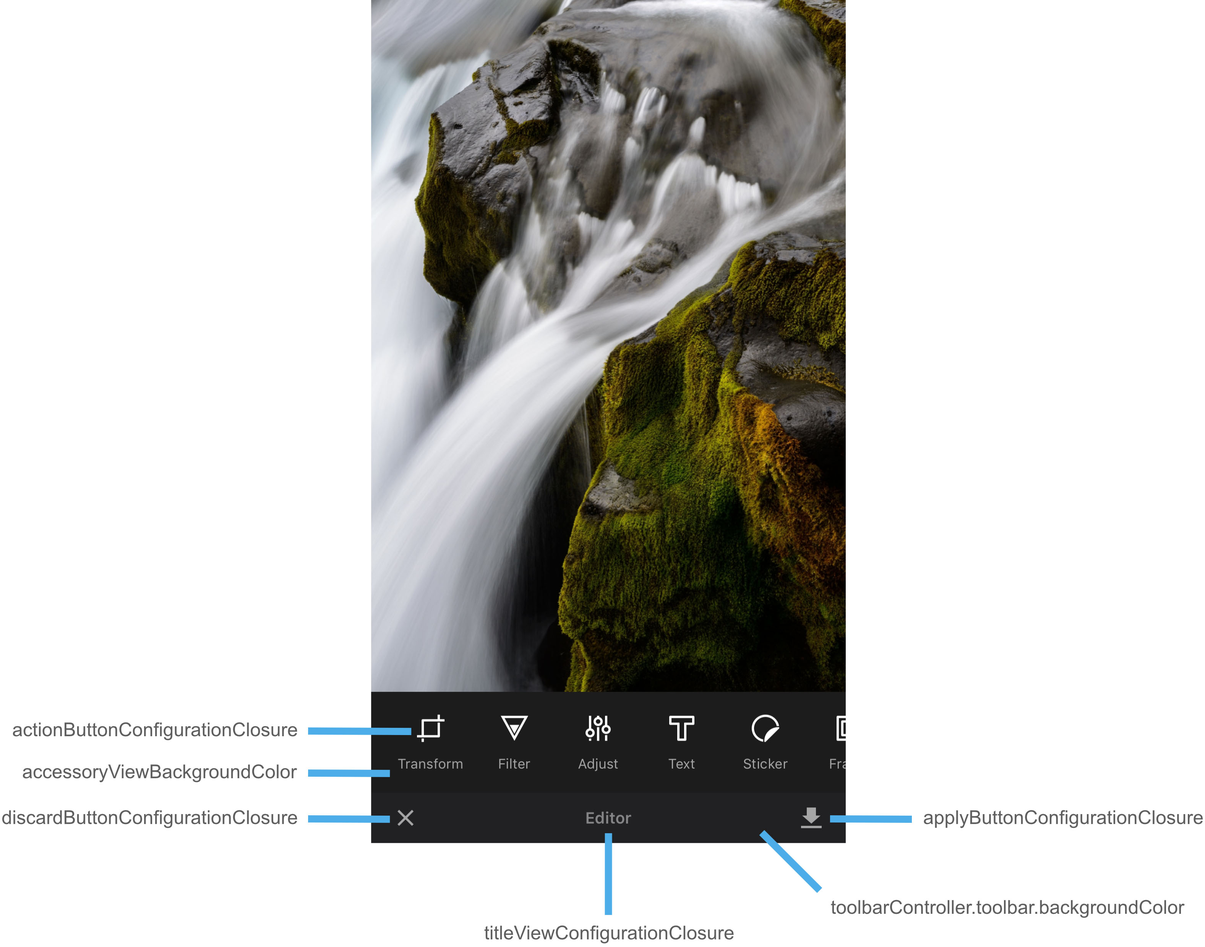
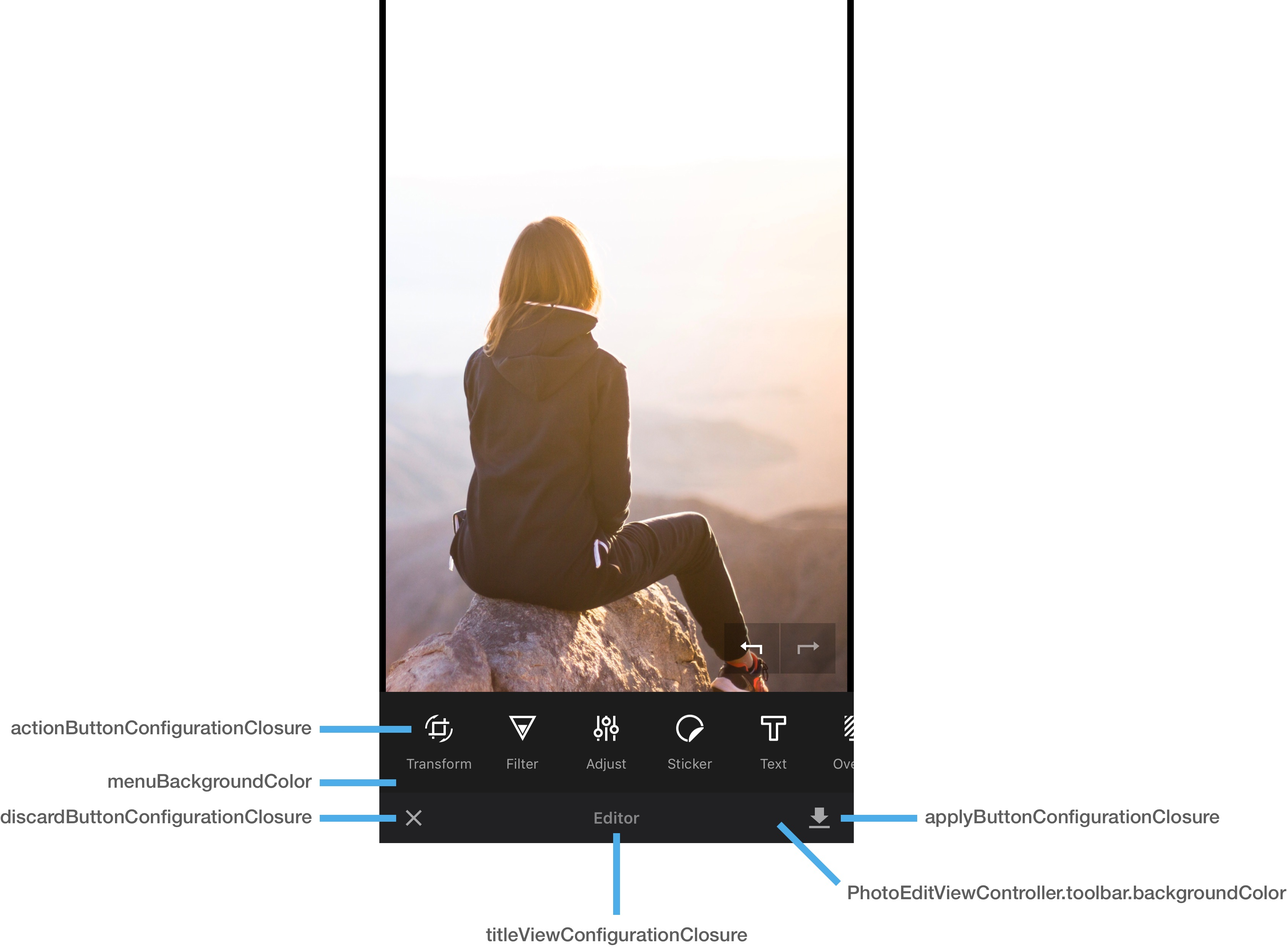
Update docs

diff --git a/_guides/ios/v8/introduction/configuration.md b/_guides/ios/v8/introduction/configuration.md
@@ -30,6 +30,9 @@ The constructor of each configuration class has a parameter for its dedicated bu
 Hence, all default settings of our SDK are set in the default builder classes.
 To change the configuration of any module, you have to set up your own builder, as follows:
 
+{% capture first_snippet %}
+Swift
+---
 ```swift
 ...
 let configuration = Configuration() { builder in
@@ -39,15 +42,56 @@ let configuration = Configuration() { builder in
 let cameraViewController = CameraViewController(configuration: configuration)
 ...
 ```
+{% endcapture %}
+
+{% capture second_snippet %}
+Objective-C
+---
+```objc
+...
+PESDKConfiguration *configuration = [[PESDKConfiguration alloc] initWithBuilder:^(PESDKConfigurationBuilder * _Nonnull builder) {
+  builder.backgroundColor = UIColor.redColor;
+}];
+
+PESDKCameraViewController *cameraViewController = [[PESDKCameraViewController alloc] initWithConfiguration:configuration];
+...
+
+```
+{% endcapture %}
+
+{% assign snippets = "" | split: "" | push: first_snippet | push: second_snippet %}
+{% capture identifier %}{{page.title}}-{{page.version}}-CONFIG{% endcapture %}
+{% include multilingual_code_block.html snippets=snippets identifier=identifier %}
 
 In order to modify the options of any specific tool, you need to modify the corresponding options using the same pattern. For example, changing the background color of the transform tool can be done using the following code:
 
+{% capture first_snippet %}
+Swift
+---
 ```swift
 let configuration = Configuration { builder in
-    builder.configureTransformToolController { options in
-        options.backgroundColor = .darkGray
+  builder.configureTransformToolController { options in
+    options.backgroundColor = .darkGray
+  }
 }
 ```
+{% endcapture %}
+
+{% capture second_snippet %}
+Objective-C
+---
+```objc
+PESDKConfiguration *configuration = [[PESDKConfiguration alloc] initWithBuilder:^(PESDKConfigurationBuilder * _Nonnull builder) {
+  [builder configureTransformToolController:^(PESDKTransformToolControllerOptionsBuilder * _Nonnull options) {
+    options.backgroundColor = UIColor.darkGrayColor;
+  }];
+}];
+```
+{% endcapture %}
+
+{% assign snippets = "" | split: "" | push: first_snippet | push: second_snippet %}
+{% capture identifier %}{{page.title}}-{{page.version}}-TRANSFORMCONFIG1{% endcapture %}
+{% include multilingual_code_block.html snippets=snippets identifier=identifier %}
 
 For more configuration examples, please refer to the examples shown below or take a look at the {% include guides/ios/demo-repository.md %}. Or take a look at our default configuration in action and check out our {% include guides/ios/example-app.md %}.
 
@@ -58,7 +102,7 @@ That means, that if you set the `backgroundColor` of the `Configuration` to blac
 unless you set another `backgroundColor` in the specific tool configuration.
 The following image annotates the most common configuration members.
 Please note that the background color of the toolbar,
-which sits at the bottom, is set through a property of the `toolbarController`.
+which sits at the bottom, is set through a property of the `PhotoEditViewController`.
 
 ![Common members]({{ site.baseurl }}/assets/images/guides/{{page.platform}}/{{page.version}}/commonMembers.jpg)
 
@@ -66,25 +110,53 @@ which sits at the bottom, is set through a property of the `toolbarController`.
 
 Most configuration objects offer closures to setup UI elements individually.
 In that case they usually come with an array of actions that determine the available actions.
-These closures will also have a `cell` and an `action` as parameters.
-This is due to the fact that most of our controllers use `UICollectionViews`.
-For example, the main tool bar presents all available actions like filters, crop, orientation.
-The closure is then called for each of these actions. So if you wish to change the crop button icon
-you have to check the action type and set the image accordingly.
+These closures will also have a `cell` and an `menuItem` as parameters.
+This is due to the fact that most of our controllers use `UICollectionView`s.
+For example, the main tool bar presents all available tools like filters and transform.
+The closure is then called for each of these menu items. If you wish to change the transform button icon
+you have to check the menu item and set the image accordingly.
 
+{% capture first_snippet %}
+Swift
+---
 ```swift
 builder.configurePhotoEditorViewController { options in
-    options.actionButtonConfigurationClosure = { cell, action in
-        if action == .Crop {
-            cell.imageView.image = ...
+  options.actionButtonConfigurationClosure = { cell, menuItem in
+    switch menuItem {
+      case .tool(let toolMenuItem):
+        if toolMenuItem.toolControllerClass == TransformToolController.self {
+          cell.imageView.image = ...
         }
+      default:
+        break
     }
 
-    options.actionButtonConfigurationClosure = { cell, action in
-      cell.captionTintColor = UIColor.red
-    }
+    cell.captionTintColor = UIColor.red
+  }
 }
 ```
+{% endcapture %}
+
+{% capture second_snippet %}
+Objective-C
+---
+```objc
+[builder configurePhotoEditorViewController:^(PESDKPhotoEditViewControllerOptionsBuilder * _Nonnull options) {
+  options.actionButtonConfigurationBlock = ^(PESDKIconCaptionCollectionViewCell * _Nonnull cell, PESDKPhotoEditMenuItem * _Nonnull menuItem) {
+    if ([menuItem.toolMenuItem.title isEqualToString:@"Transform"]) {
+      cell.imageView.image = ...
+    }
+
+    cell.captionTintColor = UIColor.redColor;
+  };
+}];
+```
+{% endcapture %}
+
+{% assign snippets = "" | split: "" | push: first_snippet | push: second_snippet %}
+{% capture identifier %}{{page.title}}-{{page.version}}-TRANSFORMCONFIG2{% endcapture %}
+{% include multilingual_code_block.html snippets=snippets identifier=identifier %}
+
 
 ### Changing icons
 
@@ -93,54 +165,43 @@ You can register a block using the `PESDK.bundleImageBlock` property which gets 
 
 ### Selecting menu items
 
-With version 6 we changed the way menu items are configured. Now there is a new constructor for the `PhotoEditViewController`,
-that takes an array of `MenuItem`'s. We recommend having a separate function to setup the menu items:
+`PhotoEditViewController` has a constructor which takes an array of `PhotoEditMenuItem`s.
 
-```swift
-func menuItems(with configuration: Configuration) -> [MenuItem] {
-    return [
-        .tool("Transform", UIImage(named: "ic_crop_48pt", in: Bundle.pesdkBundle, compatibleWith: nil)!, TransformToolController(configuration: configuration))
-    ]
-}
-```
-
-`MenuItem` is an enum with three possible cases.
-1. `case tool(String, UIImage, PhotoEditToolController)` represents a tool that can be pushed onto the stack. It has a title, an icon and the instantiated tool as associated values.
-2. `case action(String, UIImage, (inout PhotoEditModel) -> Void, ((PhotoEditModel) -> Bool)?)` represents an action that should be run when this menu item is selected. It has a title, an icon, the closure that should be run and which can update the current photo edit model, and a state closure that is used to query the active state of the action as associated values.
-3. `case separator` represents a visual separator in the menu. It has no associated values.
+`PhotoEditMenuItem` is an enum with two possible cases.
+1. `case tool(ToolMenuItem)` represents a tool that can be pushed onto the stack. It has a `ToolMenuItem` as an associated value, which has a title, an icon and the class of the tool that should be instantiated.
+2. `case action(ActionMenuItem)` represents an action that should be executed when this menu item is selected. It has an `ActionMenuItem` as an associated value, which has a title, an icon, the closure that should be executed and which can update the current photo edit model, and a state closure that is used to query the active state of the action.
 
 The `.tool` case can be used to present any subclass of `PhotoEditToolController`, making it easier to add your very own custom tool controllers to the SDK.
 Here is the code for the current default set of menu items:
 
 ```swift
-/// The default items that will be used for the main menu.
-///
-/// - Parameter configuration: A configuration instance to use to configure the tools.
-/// - Returns: An array with the default menu items.
-public static func defaultItems(with configuration: Configuration) -> [MenuItem] {
-  return [
-    .tool("Transform".localized, UIImage.bundledTemplateImage(named: "imgly_icon_tool_transform_48pt"), TransformToolController(configuration: configuration)),
-    .tool("Filter".localized, UIImage.bundledTemplateImage(named: "imgly_icon_tool_filter_48pt"), FilterToolController(configuration: configuration)),
-    .tool("Adjust".localized, UIImage.bundledTemplateImage(named: "imgly_icon_tool_adjust_48pt"), AdjustToolController(configuration: configuration)),
-    .tool("Sticker".localized, UIImage.bundledTemplateImage(named: "imgly_icon_tool_sticker_48pt"), StickerToolController(configuration: configuration)),
-    .tool("Text".localized, UIImage.bundledTemplateImage(named: "imgly_icon_tool_text_48pt"), TextToolController(configuration: configuration)),
-    .tool("Overlay".localized, UIImage.bundledTemplateImage(named: "imgly_icon_tool_overlay_48pt"), OverlayToolController(configuration: configuration)),
-    .tool("Frame".localized, UIImage.bundledTemplateImage(named: "imgly_icon_tool_frame_48pt"), FrameToolController(configuration: configuration)),
-    .tool("Brush".localized, UIImage.bundledTemplateImage(named: "imgly_icon_tool_brush_48pt"), BrushToolController(configuration: configuration)),
-    .tool("Focus".localized, UIImage.bundledTemplateImage(named: "imgly_icon_tool_focus_48pt"), FocusToolController(configuration: configuration)),
-    .action("Magic".localized, UIImage.bundledTemplateImage(named: "imgly_icon_tool_magic_48pt"), { photoEditModel in
-      var updatedPhotoEditModel = photoEditModel
-      updatedPhotoEditModel.isAutoEnhancementEnabled = !updatedPhotoEditModel.isAutoEnhancementEnabled
-      photoEditModel = updatedPhotoEditModel
-
-      if updatedPhotoEditModel.isAutoEnhancementEnabled {
-        PESDK.analytics.logEvent(.autoEnhancementOn)
-      } else {
-        PESDK.analytics.logEvent(.autoEnhancementOff)
-      }
-    }, { photoEditModel in
-      photoEditModel.isAutoEnhancementEnabled
-    })
+/// Creates the default menu items (transform, filter, adjust, sticker, text, overlay, frame,
+/// brush, focus and auto enhancement)
+public static var defaultItems: [PhotoEditMenuItem] {
+  let menuItems: [MenuItem?] = [
+    ToolMenuItem.createTransformToolItem(),
+    ToolMenuItem.createFilterToolItem(),
+    ToolMenuItem.createAdjustToolItem(),
+    ToolMenuItem.createStickerToolItem(),
+    ToolMenuItem.createTextToolItem(),
+    ToolMenuItem.createOverlayToolItem(),
+    ToolMenuItem.createFrameToolItem(),
+    ToolMenuItem.createBrushToolItem(),
+    ToolMenuItem.createFocusToolItem(),
+    ActionMenuItem.createMagicItem()
   ]
+
+  let photoEditMenuItems: [PhotoEditMenuItem] = menuItems.flatMap { menuItem in
+    switch menuItem {
+    case let menuItem as ToolMenuItem:
+      return .tool(menuItem)
+    case let menuItem as ActionMenuItem:
+      return .action(menuItem)
+    default:
+      return nil
+    }
+  }
+
+  return photoEditMenuItems
 }
 ```

diff --git a/_guides/ios/v8/concepts/controls.md b/_guides/ios/v8/concepts/controls.md
@@ -18,17 +18,8 @@ published: true # Either published or not
 ![{{page.title}} tool]({{ site.baseurl }}/assets/images/guides/{{page.platform}}/{{page.version}}/{{page.title | downcase}}.jpg){: height="400px" .center-image}
 
 
-The SDK offers controls for all available tools. The default toolset consists of the following tools: [Transform]({{ site.baseurl }}/guides/{{page.platform}}/{{page.version}}/features/transform), [Filters]({{ site.baseurl }}/guides/{{page.platform}}/{{page.version}}/features/filter), [Adjustments]({{ site.baseurl }}/guides/{{page.platform}}/{{page.version}}/features/adjustments), [Text]({{ site.baseurl }}/guides/{{page.platform}}/{{page.version}}/features/text), [Stickers]({{ site.baseurl }}/guides/{{page.platform}}/{{page.version}}/features/stickers), [Frames]({{ site.baseurl }}/guides/{{page.platform}}/{{page.version}}/features/frames), [Brush]({{ site.baseurl }}/guides/{{page.platform}}/{{page.version}}/features/brush), [Focus]({{ site.baseurl }}/guides/{{page.platform}}/{{page.version}}/features/focus) and [Magic]({{ site.baseurl }}/guides/{{page.platform}}/{{page.version}}/features/magic).
+The SDK offers controls for all available tools. The default toolset consists of the following tools: [Transform]({{ site.baseurl }}/guides/{{page.platform}}/{{page.version}}/features/transform), [Filters]({{ site.baseurl }}/guides/{{page.platform}}/{{page.version}}/features/filter), [Adjustments]({{ site.baseurl }}/guides/{{page.platform}}/{{page.version}}/features/adjustments), [Stickers]({{ site.baseurl }}/guides/{{page.platform}}/{{page.version}}/features/stickers), [Text]({{ site.baseurl }}/guides/{{page.platform}}/{{page.version}}/features/text), [Overlays]({{ site.baseurl }}/guides/{{page.platform}}/{{page.version}}/features/overlays), [Frames]({{ site.baseurl }}/guides/{{page.platform}}/{{page.version}}/features/frames), [Brush]({{ site.baseurl }}/guides/{{page.platform}}/{{page.version}}/features/brush), [Focus]({{ site.baseurl }}/guides/{{page.platform}}/{{page.version}}/features/focus) and Magic.
 
-All available tools are implemented as [`PhotoEditToolController`]({{ site.baseurl }}/apidocs/{{page.platform}}/{{page.version}}/Classes/PhotoEditToolController.html) subclasses and
-get presented in a stacked layout, starting from the [`PhotoEditViewController`]({{ site.baseurl }}/apidocs/{{page.platform}}/{{page.version}}/Classes/PhotoEditViewController.html) as root, which is embedded in a [`ToolbarController`]({{ site.baseurl }}/apidocs/{{page.platform}}/{{page.version}}/Classes/ToolbarController.html) for hierarchy and toolbar management. Each tool controller can be configured using its corresponding [`ToolControllerOptions`]({{ site.baseurl }}/apidocs/{{page.platform}}/{{page.version}}/Classes/ToolControllerOptions.html) subclass as described in the [configuration]({{ site.baseurl }}/guides/{{page.platform}}/{{page.version}}/introduction/configuration) and [customization]({{ site.baseurl }}/guides/{{page.platform}}/{{page.version}}/ui/customization) sections.
+All available tools are implemented as [`PhotoEditToolController`]({{ site.baseurl }}/apidocs/{{page.platform}}/{{page.version}}/Classes/PhotoEditToolController.html) subclasses. Most tools subclass [`MenuToolController`]({{ site.baseurl }}/apidocs/{{page.platform}}/{{page.version}}/Classes/MenuToolController.html) though, which is a `PhotoEditToolController` subclass which contains a [`MenuViewController`]({{ site.baseurl }}/apidocs/{{page.platform}}/{{page.version}}/Classes/MenuViewController.html) to present the menu at the bottom and a contained view controller above the menu. The [`PhotoEditViewController`]({{ site.baseurl }}/apidocs/{{page.platform}}/{{page.version}}/Classes/PhotoEditViewController.html) is responsible for presenting and dismissing `PhotoEditToolController`s.
 
-
-![{{page.title}} tool]({{ site.baseurl }}/assets/images/guides/{{page.platform}}/{{page.version}}/frames_annotated.jpg){: height="400px" .center-image}
-
-A single tool controller consists of four main views:
-
-1. `workspaceView` - The view showing the image thats currently being edited and any changes, e.g. brush strokes or stickers, that are applied to it
-2. `overlays` - A set of buttons that are overlaid on the `workspaceView` and offer functionality like 'Redo', 'Undo' or 'Bring to front'
-3. `accessoryView` - The default place for controls, that belong to the current tool
-4. `toolbar` - The bottom toolbar, managed by the [`ToolbarController`]({{ site.baseurl }}/apidocs/{{page.platform}}/{{page.version}}/Classes/ToolbarController.html) displays the current tool and allows apply/cancel actions.
+Each tool controller can be configured using its corresponding [`ToolControllerOptions`]({{ site.baseurl }}/apidocs/{{page.platform}}/{{page.version}}/Classes/ToolControllerOptions.html) subclass as described in the [configuration]({{ site.baseurl }}/guides/{{page.platform}}/{{page.version}}/introduction/configuration) and [customization]({{ site.baseurl }}/guides/{{page.platform}}/{{page.version}}/ui/customization) sections.

diff --git a/_guides/ios/v8/resources/faq.md b/_guides/ios/v8/resources/faq.md
@@ -31,7 +31,7 @@ We have a full-source license. Please [contact us](https://www.photoeditorsdk.co
 
 ## Framework Size
 
-You might be wondering why the `PhotoEditorSDK.framework` folder is almost 100 MB large. This can be irritating at first, however this is not the size that your users will get.
+You might be wondering why the `PhotoEditorSDK.framework` folder is almost 135 MB large. This can be irritating at first, however this is not the size that your users will get.
 
 The PhotoEditor SDK includes many UI components, lookup tables and fonts. This results in a lot of code and thus a sizeable binary, although there are certain factors that make it appear larger than it actually is. We’re working hard to ensure the framework size stays as low as possible.
 
@@ -39,11 +39,11 @@ The PhotoEditor SDK includes many UI components, lookup tables and fonts. This r
 
 The SDK binary includes slices for i386, x64, armv7 and arm64. For armv7 and arm64, bitcode is included as well — which basically results in 6 different slices. ([Learn more about bitcode here](https://www.photoeditorsdk.com/documentation/ios/faq#bitcode)) Each slice is a full and complete copy of the SDK, and only one slice is required for your users. During archiving Xcode ensures that the Simulator slices (i386, x64) are stripped away from our SDK, which will result in a significant size reduction.
 
-Bitcode is a large size contributor. As bitcode is unoptimized code in a generic format, it takes up a lot of space. Since Bitcode is not architecture independent, slices are emitted for both armv7 and arm64. These slices are rather large, more than 8MB per slice, so support for Bitcode alone is about 16 MB of space.
+Bitcode is a large size contributor. As bitcode is unoptimized code in a generic format, it takes up a lot of space. Since Bitcode is not architecture independent, slices are emitted for both armv7 and arm64. These slices are rather large, more than 18MB per slice, so support for Bitcode alone is about 36 MB of space.
 
 ### App Thinning
 
-Apple also actively works on reducing app binary size, and added [App Thinning](https://developer.apple.com/library/tvos/documentation/IDEs/Conceptual/AppDistributionGuide/AppThinning/AppThinning.html) in iOS 9. This creates optimized versions of your app and the user only downloads the architecture that is required for the current device. This also strips away bitcode, resulting in a total SDK footprint of about 10-20 MB.
+Apple also actively works on reducing app binary size, and added [App Thinning](https://developer.apple.com/library/tvos/documentation/IDEs/Conceptual/AppDistributionGuide/AppThinning/AppThinning.html) in iOS 9. This creates optimized versions of your app and the user only downloads the architecture that is required for the current device. This also strips away bitcode, resulting in a total SDK footprint of about 20-25 MB.
 
 ### PhotoEditorSDK.bundle
 
@@ -51,7 +51,7 @@ The PhotoEditor SDK needs various images and localization files, which are distr
 
 ### Swift
 
-Because the Swift ABI is not yet stable, each app that includes Swift bundles a version of the current Swift runtime. The PhotoEditor SDK is written in Swift and thus requires said Swift runtime to be included, even if you only use Objective-C in your own code. Unfortunately, the runtime adds roughly another 10 MB to the App Store size. When the Swift binary interface stabilizes, the Swift runtime will become part of the host OS and this size increase of apps will no longer exist.
+Because the Swift ABI is not yet stable, each app that includes Swift bundles a version of the current Swift runtime. The PhotoEditor SDK is written in Swift and thus requires said Swift runtime to be included, even if you only use Objective-C in your own code. Unfortunately, the runtime adds roughly another 12 MB to the App Store size. When the Swift binary interface stabilizes, the Swift runtime will become part of the host OS and this size increase of apps will no longer exist. Xcode 9 offers a new option to 'Strip Swift Symbols' when uploading a build to iTunes Connect. This step will get rid of quite a few MB. 
 
 ### Delta Updates
 

diff --git a/_guides/ios/v8/introduction/architecture.md b/_guides/ios/v8/introduction/architecture.md
@@ -26,7 +26,7 @@ The SDK's backend is in charge of all image processing and rendering. That inclu
 
 ## Frontend
 
-The frontend contains all UI elements including the `PhotoEditToolController`, which is the base class for all tools, the `StackLayoutToolController`, which is a subclass of `PhotoEditToolController` and lays out its views into the top `workspaceView` and the bottom `accessoryView`, which is used for the menu.
-It also contains the `CameraViewController` and `PhotoEditViewController` classes, which represent the root view controllers as well as the `ToolbarController`, which is used to handle the transitions between the editor and its tools.
+The frontend contains all UI elements including the `PhotoEditToolController`, which is the base class for all tools, the `MenuToolController`, which is a subclass of `PhotoEditToolController` and provides a collection view at the bottom of the view, which acts as the menu.
+It also contains the `CameraViewController` and `PhotoEditViewController` classes, which represent the root view controllers.
 
-All tools described in the `Features` section are implemented as `PhotoEditToolController` subclasses and managed by the `ToolbarController`. The UI configuration is implemented using the `Configuration` class and their subclasses, as described in the [configuration]({{ site.baseurl }}/guides/{{page.platform}}/{{page.version}}/introduction/configuration) section.
+All tools described in the `Features` section are implemented as `PhotoEditToolController` subclasses and managed by the `PhotoEditViewController`. The UI configuration is implemented using the `Configuration` class and their subclasses, as described in the [configuration]({{ site.baseurl }}/guides/{{page.platform}}/{{page.version}}/introduction/configuration) section.

diff --git a/_guides/ios/v8/features/frames.md b/_guides/ios/v8/features/frames.md
@@ -33,7 +33,7 @@ In contrast to version 6, frames are stored in a static array of the `Frame` cla
 In the example code below, we are creating a new static frame. We are adding three assets, to support the aspect ratios, 1:1, 4:6 and 6:4.
 As tolerance we set 0.1, which is our go to value. Also we set an identifier that will be used during the (de)serialization process and must be unique. We prefixed all frame assets with `imgly_frame`, and we highly reconmend you to prefix your assets and identifiers as well.
 
-```
+```swift
 let frame = Frame(identifier: "imgly_frame_blackwood", tolerance: 0.1)
 frame.accessibilityLabel = "Black wood frame".localized
 
@@ -84,7 +84,7 @@ The left and right group consist of a stretched border texture, and a start and 
 
 The code to create that frame looks like this:
 
-```
+```swift
 open static var diaFrameBuilder: CustomPatchFrameBuilder {
     let config = CustomPatchConfiguration()
 
@@ -121,7 +121,7 @@ open static var diaFrameBuilder: CustomPatchFrameBuilder {
 
 And the code to create the `Frame` instance looks like this
 
-```
+```swift
 if let url = Bundle.pesdkBundle.url(forResource: "imgly_frame_dia_thumbnail", withExtension: "png") {
       let dynamicFrame = Frame(frameBuilder: DefaultDynamicFrames.diaFrameBuilder, relativeScale: 0.075, thumbnailURL: url, identifier: "imgly_frame_dia")
       dynamicFrame.accessibilityLabel = "Dia frame".localized

diff --git a/_guides/ios/v8/concepts/objc.md b/_guides/ios/v8/concepts/objc.md
@@ -14,13 +14,14 @@ tags: &tags # tags that are necessary
 
 published: true # Either published or not
 ---
--C compatibility
 
-All public classes, methods and enums can be mixed and matched with Objective-C. If you installed PhotoEditor SDK with CocoaPods or embedded the framework directly all you have to do is import the framework:
+Most public classes, methods and enums can be mixed and matched with Objective-C. If you installed PhotoEditor SDK with CocoaPods or embedded the framework directly all you have to do is import the framework:
 
 ```objc
 @import PhotoEditorSDK;
 ```
+
+If you want full control over the SDK and the possibility to subclass certain classes of the SDK and replace them, you will have to use Swift however. Because of that we highly recommend that the parts of your code that interact with the SDK are written in Swift.
 
 For more information about Swift and Objective-C interoperability please refer to [Using Swift with Cocoa and Objective-C](https://developer.apple.com/library/ios/documentation/Swift/Conceptual/BuildingCocoaApps/MixandMatch.html).
 

diff --git a/_guides/ios/v8/concepts/localization.md b/_guides/ios/v8/concepts/localization.md
@@ -24,7 +24,12 @@ We also provide two properties to customize your localization, `PESDK.localizati
 ## Add further localization to the PhotoEditor SDK
 
 You can either set new localization programmatically or add further localization via adding the corresponding folders.
-To get an overview of all available strings that need to be localized, look inside /PhotoEditorSDK.bundle/en.lproj/Localizable.strings.
+To get an overview of all available strings that need to be localized, look inside /PhotoEditorSDK.bundle/en.lproj/Localizable.strings. The contents of that file are in binary format. To convert them back into a readable format please use the following command:
+
+```bash
+plutil -convert xml1 PhotoEditorSDK.bundle/en.lproj/Localizable.strings
+```
+
 As mentioned above, there are two ways to add localization programmatically. The first is to set a localization dictionary like so:
 
 ```swift

diff --git a/_guides/ios/v8/features/overlays.md b/_guides/ios/v8/features/overlays.md
@@ -34,7 +34,7 @@ We highly recommend you to prefix your identifiers as well. For more information
 
 Here is an exmple of how to add an overlay.
 
-```
+```swift
 let overlay = Overlay(identifier: "imgly_overlay_golden", displayName: "Golden".localized, url: Bundle.pesdkBundle.url(forResource: "imgly_overlay_golden", withExtension: "jpg"), thumbnailURL: Bundle.pesdkBundle.url(forResource: "imgly_overlay_golden_thumb", withExtension: "jpg"), initialBlendMode: .lighten)
 Overlay.all.append(overlay)
 ```

diff --git a/_guides/ios/v7/concepts/objc.md b/_guides/ios/v7/concepts/objc.md
@@ -14,7 +14,6 @@ tags: &tags # tags that are necessary
 
 published: true # Either published or not
 ---
--C compatibility
 
 All public classes, methods and enums can be mixed and matched with Objective-C. If you installed PhotoEditor SDK with CocoaPods or embedded the framework directly all you have to do is import the framework:
 
